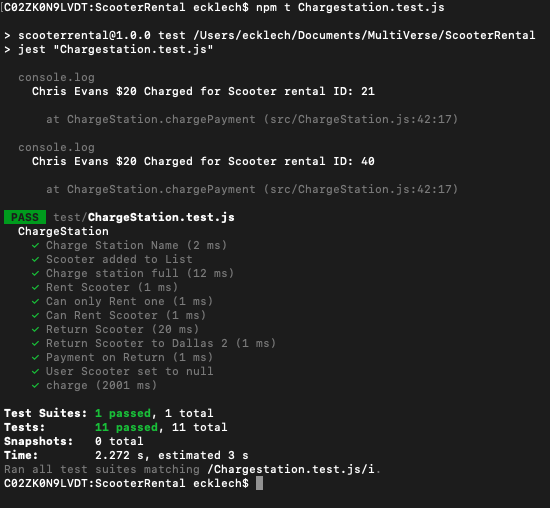
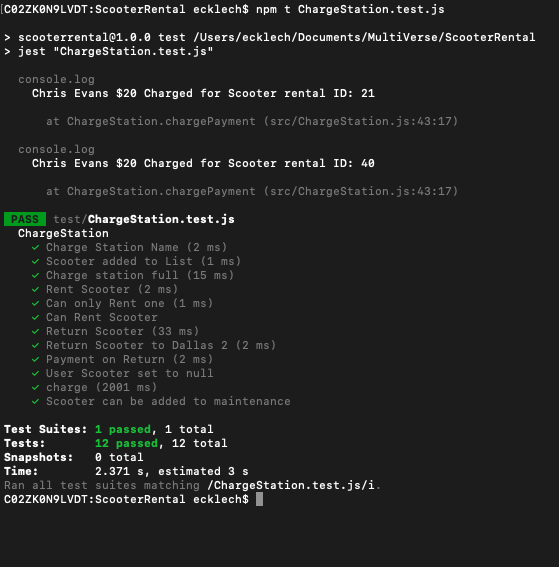
changed screen shot, and added needMaintenance function

Changed region(s): [[0.0, 0.0591, 0.9891, 0.9744], [0.0, 0.0, 0.8036, 0.0295]]

diff --git a/src/ChargeStation.js b/src/ChargeStation.js
@@ -8,6 +8,7 @@ class ChargeStation {
         this.maxScooter = maxScooter;
         this.scooterList = [];
         this.constructor.location.push(this);
+        this.maintenance = [];
     }
 
     addScooter(scooter){
@@ -48,6 +49,14 @@ class ChargeStation {
         this.scooterList[index].charge()
         user.scooter = null;
         this.chargePayment(scooter.id, user);
+    }
+
+    needMaintenance(scooter){
+        const index = this.scooterList.indexOf(scooter);
+        const limboScooter = this.scooterList[index]
+        this.maintenance.push(limboScooter);
+        this.scooterList.splice(index,1);
+        console.log('sooter added to needMaintenance')
     }
 }
 

diff --git a/test/ChargeStation.test.js b/test/ChargeStation.test.js
@@ -86,4 +86,12 @@ describe('ChargeStation', () => {
         //console.log("Test complete");
         expect(ChargeStation.location[0].scooterList[1].fullCharge).toBeTruthy();
     });
+
+    test("Scooter can be added to maintenance", async () => {
+        const testScooter = new Scooter(55,true);
+        ChargeStation.location[0].addScooter(testScooter);
+        ChargeStation.location[0].needMaintenance(testScooter);
+        console.log("Scooter:"+ChargeStation.location[0].maintenance[0]);
+        expect(ChargeStation.location[0].maintenance[0].id).toBe(55);
+    });
 });
